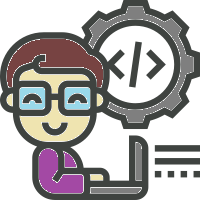
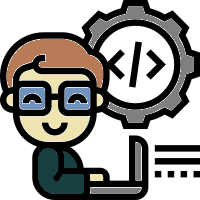
мелкие правки стиля

diff --git a/space_ru/lib/pages/login_form.dart b/space_ru/lib/pages/login_form.dart
@@ -49,14 +49,13 @@ class _UsernameInput extends StatelessWidget {
 
     return TextField(
       key: const Key('loginForm_usernameInput_textField'),
-      autofocus: true,
       onChanged: (username) {
         context.read<LoginBloc>().add(LoginUsernameChanged(username));
       },
       decoration: InputDecoration(
         icon: Icon(
           Icons.mail,
-          color: Colors.purple.shade300,
+          color: Colors.teal.shade800,
         ),
         labelText: 'username',
         errorText: displayError != null ? 'invalid username' : null,
@@ -104,7 +103,7 @@ class _PasswordInput extends StatelessWidget {
       decoration: InputDecoration(
         icon: Icon(
           Icons.key,
-          color: Colors.purple.shade300,
+          color: Colors.teal.shade800,
         ),
         labelText: 'password',
         errorText: displayError != null ? 'invalid password' : null,
@@ -127,7 +126,7 @@ class _LoginButton extends StatelessWidget {
     return ElevatedButton(
       style: ElevatedButton.styleFrom(
           foregroundColor: Colors.black54,
-          backgroundColor: Colors.purple.shade50,
+          backgroundColor: Colors.teal.shade50,
           minimumSize: const Size(400, 48)),
       key: const Key('loginForm_continue_raisedButton'),
       onPressed: isValid

diff --git a/space_ru/lib/pages/menu_bar.dart b/space_ru/lib/pages/menu_bar.dart
@@ -37,7 +37,6 @@ class _DrawerMenuState extends State<DrawerMenu> {
   Widget build(BuildContext context) {
     return Scaffold(
       appBar: AppBar(
-        title: Text("Home"),
         leading: Builder(
           builder: (context) {
             return IconButton(
@@ -58,7 +57,7 @@ class _DrawerMenuState extends State<DrawerMenu> {
           children: <Widget>[
             const UserAccountsDrawerHeader(
               // <-- SEE HERE
-              decoration: BoxDecoration(color: const Color(0xff764abc)),
+              decoration: BoxDecoration(color: Colors.grey),
               accountName: Text(
                 "Черноусов Валерий",
                 style: TextStyle(
